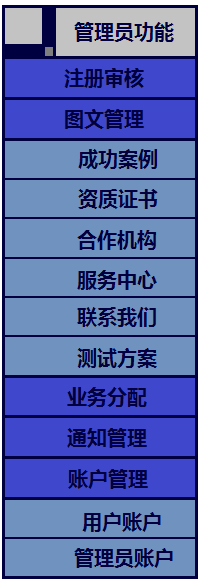
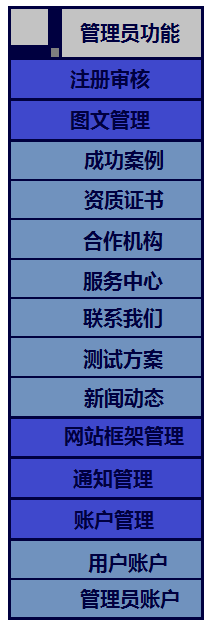
Sort admin tools and prepare for large revision

diff --git a/reqdoc4.0.md b/reqdoc4.0.md
@@ -109,9 +109,9 @@
 
 ## 3 总体设计
 
-### 3.1 功能性需求
+### 3.1 功能性需求 (REV)
 
-#### 3.1.1 主页
+#### 3.1.1 主页 
 
 ![](https://github.com/thytless/gitCooperationExercise/raw/master/pic/homepage.PNG)
 
@@ -155,24 +155,9 @@
 
 
 
-#### 3.1.2 项目
+#### 3.1.2 在线业务
 
-##### 3.1.2.1 展开项目的子栏目
-
-鼠标移动到导航栏“项目”栏目上
-
-##### 3.1.2.2 转到项目主界面
-
-点击导航栏上的项目
-
-##### 3.1.2.3 在线委托
-
-（由其他项目组完成）
-
-##### 3.1.2.4 订单查询
-
-（由其他项目组完成）
-
+（由其他小组完成）
 
 
 #### 3.1.3 成功案例
@@ -297,9 +282,13 @@
 
 光伏产品测试、光伏系统测试
 
+##### 3.1.8 行业新闻 (TODO)
 
 
-### 3.2 用户管理
+##### 3.1.9 国家文件 (TODO)
+
+
+### 3.2 用户管理 
 
 系统初始化时默认有超级管理员账户，其他账户需要通过申请、审核来注册。
 
@@ -350,7 +339,7 @@
 
 在首页登录界面选择登录，输入用户名、密码以登录。
 
-或点击右下的小图标，使用已有账户绑定的第三方账户扫描二维码登录。关于绑定第三方账户见<a href="#h3217">3.2.1.7节</a>
+或点击右下的小图标，使用已有账户绑定的第三方账户扫描二维码登录。关于绑定第三方账户见<a href="#h3214">3.2.1.4节-绑定第三方账户</a>
 
 登录预览：
 
@@ -364,48 +353,45 @@
 
 
 
-##### 3.2.1.4 个人信息
+##### 3.2.1.4 用户设置
 
-用户注册成功后，可以在**个人中心-个人信息**查看、修改注册时填写的信息。
-其中绑定信息会作部分隐藏处理。
+* a.个人信息
+
+	用户注册成功后，可以在**个人中心-个人信息**查看、修改注册时填写的信息。
+	其中绑定信息会作部分隐藏处理。
 	
-- 选择修改个人信息，进入包含注册时填写的第二阶段个人信息的表单，用户修改后，由账户管理员负责审核，审核通过则修改成功，不通过则保持原状。审核信息将发送到用户通知栏。
+	- 选择修改个人信息，进入包含注册时填写的第二阶段个人信息的表单，用户修改后，由账户管理员负责审核，审核通过则修改成功，不通过则保持原状。审核信息将发送到用户通知栏。
 
-- 选择修改密码，输入绑定的邮箱/手机，系统检查数据库中绑定信息的存在，不存在返回错误，存在则将发送验证码。用户接收验证码并输入，核对无误后，输入新密码、确认密码，点击提交后密码修改完毕。
+	- 选择修改密码，输入绑定的邮箱/手机，系统检查数据库中绑定信息的存在，不存在返回错误，存在则将发送验证码。用户接收验证码并输入，核对无误后，输入新密码、确认密码，点击提交后密码修改完毕。
 
-- 选择修改绑定信息，再次输入登录密码，新的邮箱/手机。系统检查输入密码无误后，向新的邮箱/手机发送验证码。用户接收验证码并输入，核对无误后，点击提交后绑定信息修改完毕。
+	- 选择修改绑定信息，再次输入登录密码，新的邮箱/手机。系统检查输入密码无误后，向新的邮箱/手机发送验证码。用户接收验证码并输入，核对无误后，点击提交后绑定信息修改完毕。
+
+* b.账户注销
+	
+	退出当前的登录，以游客状态回到主界面。
+
+* c.账户删除
+
+	在输入“确认删除（用户名）”，输入验证码后删除本账户。
+
+* <a id="h3214">d.绑定第三方账户</a>
+
+	支持绑定qq、微信与钉钉账户。用户既可以用相应账户的账号密码登录来授权绑定，也可以直接扫描二维码来授权绑定。
 
 ##### 3.2.1.5 通知中心
 
 用户登录后，可以在**个人中心-通知中心**查看收到的通知的列表，包括项目的进度，网站的更新、维护等。点击列表中的某一项的标题，可进入详细查看的页面。
 
-##### 3.2.1.6 委托管理
+##### 3.2.1.6 意见反馈板
 
-（由其他小组完成）
-
-##### <a id="h3217">3.2.1.7 绑定第三方账户</a>
-
-支持绑定qq、微信与钉钉账户。用户既可以用相应账户的账号密码登录来授权绑定，也可以直接扫描二维码来授权绑定。
-
-##### 3.2.1.8 账户注销
-
-退出当前账户的登录，回到游客状态。
-
-##### 3.2.1.9 账户删除
-
-在输入“确认删除（用户名）”，输入验证码后删除本账户。
-
-
-##### 3.2.1.10 意见反馈板
-
-**用户：**
+**a.用户：**
 
 新建反馈：基于office插件的消息框，标题、文本必填，可添加5M以内附件。
 
 查看已发送的反馈：可以看到已发送的反馈和管理员的回复，可以继续回复。
 
 
-**管理员：**
+**b.管理员：**
 
 查看、回复用户的意见反馈。可以通过时间，标题，内容搜索某一条反馈。回复基于office插件的消息框，标题、文本必填，可添加5M以内附件。
 
@@ -421,92 +407,107 @@
 
 ![](https://github.com/thytless/gitCooperationExercise/raw/master/pic/admin_example.PNG)
 
-##### 3.2.2.1 修改网页内容
 
-点击修改网页按钮，进入修改网页的页面，管理员可按照自己的意愿修改网页上显示的字体、大小、内容；或者改变网页的布局。也可以在这里面更新资质证书。 
-
-
-
-##### 3.2.2.2 发布新闻动态
-
-点击新闻发布按钮，进入新闻发布页面。可选择上传本地文件和在线编写两种模式。选择上传本地文件会要求上传一份doc/pdf/txt格式的文档，系统会将里面的内容显示在新闻里。选择在线编写会弹出文本框要求发布者书写新闻内容，并且允许发布者上传图片。完成编写后点击提交，新闻动态的发布请求将会传给审核人员。
-
-
-
-##### 3.2.2.3 修改新闻
-
-点击修改新闻按钮，将会显示目前为止所有已经发布的新闻，选择其中某个新闻即可对其进行修改或删除操作，操作完成之后将会提交给审核人员进行审核。
-
- 
-
-##### 3.2.2.4 业务审核
-
-点击业务审核按钮，将会显示目前为止所有的待审核订单，点击某一订单将显示它的详细信息：订单号、申请人、业务具体内容等，带有一个文本框以及（通过/驳回）2个按钮。点击通过即可通过审核，将该订单提交给更上一层的人员审核，如果已经是最高的审核人员，订单即通过审核，会被送到待分配的队列中等待分配。如果要点击驳回，必须在文本框里给出驳回的理由，驳回后的订单将会退回给客户，并告知客户驳回的理由。
-
- 
-
-##### 3.2.2.5 网页审核
-
-点击网页审核按钮，将会显示目前为止所有的待审核网页修改请求，点击某个请求将会显示详细信息：修改人、修改时间、修改内容等，带有一个文本框以及（通过/驳回）2个按钮。点击通过即可通过审核，将该请求提交给更上一层的人员审核，如果已经是最高的审核人员，修改即通过审核，网页机会被修改。如果要点击驳回，必须在文本框里给出驳回的理由，驳回后的请求将会退回给修改人，并告知修改人驳回的理由。
-
- 
-
-##### 3.2.2.6 新闻发布审核
-
-点击新闻审核按钮，将会显示目前为止所有待审核的新闻（发布/修改/删除），点击某一条新闻将会显示详细信息：发布人、新闻内容，带有一个文本框以及（通过/驳回）2个按钮。点击通过即可通过审核，将该请求提交给更上一层的人员审核，如果已经是最高的审核人员，订请求即通过审核，会显示在新闻内容的第一条。如果要点击驳回，必须在文本框里给出驳回的理由，驳回后的请求将会退回给发布人，并告知发布人驳回的理由。
-
- 
-
-##### 3.2.2.7 注册审核
+##### 3.2.2.1 注册审核
 
 点击注册审核按钮，将会显示目前为止所有的注册申请，点击某一申请将会显示详细信息：申请人/单位、联系方式（电话/邮箱）等，带有一个文本框以及（通过/驳回）2个按钮。点击通过即可通过审核，将该请求提交给更上一层的人员审核，如果已经是最高的审核人员，修改即通过审核。如果要点击驳回，必须在文本框里给出驳回的理由，驳回后的请求将会退回给申请人，并告知修申请人驳回的理由。
 当没有账户管理员时，注册申请会提交给超级管理员。存在账户管理员时则不会。
 管理员注册通过后会得到该类型管理员的默认权限。
 
- 
+##### 3.2.2.2 图文管理 (TODO)
 
-##### 3.2.2.8 分配业务
+图文管理栏目包括成功案例、资质证书、合作机构、服务中心、联系我们、测试方案共6个栏目的图文内容的维护和审核。维护权限和审核权限无法共有，因此维护功能只对拥有维护功能的管理员可见，审核功能同理。
 
-点击分配业务按钮，将在页面上显示所有已经通过审核的待处理业务，点击任意业务将会显示目前空闲的测试者，点击某位测试者即会将任务分配给他、向他的邮箱中发送邮件提醒并在他的通知中显示。
+**a.成功案例**
 
-（待其他小组补充）
- 
+* 1.维护
 
-##### 3.2.2.9 客户账户管理
+ 	点击成功案例操作按钮，将会进入成功案例操作界面，有添加/操作2个选项。点击添加选项，将会显示所有已完成的测试案例，点击某一测试案例将会显示其详细信息，包括：申请人、测试开始时间时间、测试结束时间、测试结果、测试人等。并带有2个按钮，分别为取消、展示。点击取消将回退到已完成案例的界面。点击展示则将显示目前为止网站上的所有分类（具体分类内容见上文），点击某一分类即可将案例展示到该分类之下。点击操作按钮即可展示目前为止所有展示的成功案例，点击某一案例即可显示其详细信息，包括：申请人、测试开始时间时间、测试结束时间、测试结果、测试人等。并带有3个按钮，取消/修改/删除。点击取消会退到案例展示页面，点击修改即可对这个案例进行修改，点击删除即可在成功案例展示中删除该案例。以上所有操作需要审核。
 
-点击客户账户管理进入客户账户管理界面，可以查看所有已注册的客户账户，并对其进行搜索查找以及排序。对于某个特定的用户，可以对其进行冻结、解冻、注销操作，同时可以修改该客户的账户信息，包括用户名和密码。
+* 2.审核
 
- 
+	点击案例审核按钮，将会显示目前为止所有的案例操作申请，点击某一申请将会显示详细信息：申请人、申请修改的案例等，带有一个文本框以及（通过/驳回）2个按钮。点击通过即可通过审核，将该请求提交给更上一层的人员审核，如果已经是最高的审核人员，修改即通过审核。如果要点击驳回，必须在文本框里给出驳回的理由，驳回后的请求将会退回给申请人，并告知修申请人驳回的理由。
 
-##### 3.2.2.10 管理员账户管理
+**b.资质证书**
 
-点击管理员账户管理可以进入管理员账户管理界面，可以查看目前所有的管理员账户，并对其进行搜索查找以及排序。对于某个特定的管理员，可以修改其账户的信息包括用户名和密码。同时可以修改管理员的类型来使其获得不同的权限。
+* 1.维护
 
- 
+* 2.审核
 
-##### 3.2.2.11 新建管理员
+**c.合作机构**
 
-点击新建管理员进入管理员添加流程，通过搜索用户名找到需要改为管理员的账户，并规定管理员的权限（选择管理员的类型）然后点击添加即可。
+* 1.维护
+
+* 2.审核
+
+**d.服务中心**
+
+* 1.维护
+
+* 2.审核
+
+**e.联系我们**
+
+* 1.维护
+
+* 2.审核
+
+**f.测试方案**
+
+* 1.维护
+
+* 2.审核
+
+**g.新闻动态**
+
+* 1.维护
+
+	点击新闻发布按钮，进入新闻发布页面。可选择上传本地文件和在线编写两种模式。选择上传本地文件会要求上传一份doc/pdf/txt格式的文档，系统会将里面的内容显示在新闻里。选择在线编写会弹出文本框要求发布者书写新闻内容，并且允许发布者上传图片。完成编写后点击提交，新闻动态的发布请求将会传给审核人员。
+
+	点击修改新闻按钮，将会显示目前为止所有已经发布的新闻，选择其中某个新闻即可对其进行修改或删除操作，操作完成之后将会提交给审核人员进行审核。
+
+* 2.审核
+ 	点击新闻审核按钮，将会显示目前为止所有待审核的新闻（发布/修改/删除），点击某一条新闻将会显示详细信息：发布人、新闻内容，带有一个文本框以及（通过/驳回）2个按钮。点击通过即可通过审核，将该请求提交给更上一层的人员审核，如果已经是最高的审核人员，订请求即通过审核，会显示在新闻内容的第一条。如果要点击驳回，必须在文本框里给出驳回的理由，驳回后的请求将会退回给发布人，并告知发布人驳回的理由。
+	
+
+##### 3.2.2.3 网站框架管理
+
+* 1.维护
+
+	点击修改网页按钮，进入修改网页的页面，管理员可按照自己的意愿修改网页上显示的字体、大小、内容；或者改变网页的布局。也可以在这里面更新资质证书。 
+
+* 2.审核
+
+	点击网页审核按钮，将会显示目前为止所有的待审核网页修改请求，点击某个请求将会显示详细信息：修改人、修改时间、修改内容等，带有一个文本框以及（通过/驳回）2个按钮。点击通过即可通过审核，将该请求提交给更上一层的人员审核，如果已经是最高的审核人员，修改即通过审核，网页机会被修改。如果要点击驳回，必须在文本框里给出驳回的理由，驳回后的请求将会退回给修改人，并告知修改人驳回的理由。
+
+##### 3.2.2.4 通知管理
+* 1.发布
+
+	单人的或集体的通知信息，可以按类别添加或按用户名查找添加目标用户。基于office插件的消息框，标题、文本必填，可添加5M以内附件。填写相关图文后提交申请。
 
 
 
-##### 3.2.2.13 发布通知
+* 2.审核
 
-单人的或集体的通知信息，可以按类别添加或按用户名查找添加目标用户。基于office插件的消息框，标题、文本必填，可添加5M以内附件。填写相关图文后提交申请。
+	点击通知审核按钮，将会显示目前为止所有的待审核通知，点击某一通知将显示它的详细信息：目标用户，通知内容等，带有一个文本框以及（通过/驳回）2个按钮。点击通过即可通过审核，将该通知提交给更上一层的人员审核，如果已经是最高的审核人员，通知即通过审核，发布给目标用户。如果要点击驳回，必须在文本框里给出驳回的理由，并通过通知形式告知通知发布者。
+
+
+##### 3.2.2.5 账户管理
+
+* a.客户
+
+	点击客户账户管理进入客户账户管理界面，可以查看所有已注册的客户账户，并对其进行搜索查找以及排序。对于某个特定的用户，可以对其进行冻结、解冻、注销操作，同时可以修改该客户的账户信息，包括用户名和密码。
+
+* b.管理员
+
+	点击管理员账户管理可以进入管理员账户管理界面，可以查看目前所有的管理员账户，并对其进行搜索查找以及排序。对于某个特定的管理员，可以修改其账户的信息包括用户名和密码。同时可以修改管理员的类型来使其获得不同的权限。
+
+* c.新建管理员
+
+	点击新建管理员进入管理员添加流程，通过搜索用户名找到需要改为管理员的账户，并规定管理员的权限（选择管理员的类型）然后点击添加即可。
 
 
 
-##### 3.2.2.14 通知审核
-
-点击通知审核按钮，将会显示目前为止所有的待审核通知，点击某一通知将显示它的详细信息：目标用户，通知内容等，带有一个文本框以及（通过/驳回）2个按钮。点击通过即可通过审核，将该通知提交给更上一层的人员审核，如果已经是最高的审核人员，通知即通过审核，发布给目标用户。如果要点击驳回，必须在文本框里给出驳回的理由，并通过通知形式告知通知发布者。
-
-##### 3.2.2.15 成功案例操作
-
-点击成功案例操作按钮，将会进入成功案例操作界面，有添加/操作2个选项。点击添加选项，将会显示所有已完成的测试案例，点击某一测试案例将会显示其详细信息，包括：申请人、测试开始时间时间、测试结束时间、测试结果、测试人等。并带有2个按钮，分别为取消、展示。点击取消将回退到已完成案例的界面。点击展示则将显示目前为止网站上的所有分类（具体分类内容见上文），点击某一分类即可将案例展示到该分类之下。点击操作按钮即可展示目前为止所有展示的成功案例，点击某一案例即可显示其详细信息，包括：申请人、测试开始时间时间、测试结束时间、测试结果、测试人等。并带有3个按钮，取消/修改/删除。点击取消会退到案例展示页面，点击修改即可对这个案例进行修改，点击删除即可在成功案例展示中删除该案例。以上所有操作需要审核。
-
-##### 3.2.2.16 案例审核
-
-点击案例审核按钮，将会显示目前为止所有的案例操作申请，点击某一申请将会显示详细信息：申请人、申请修改的案例等，带有一个文本框以及（通过/驳回）2个按钮。点击通过即可通过审核，将该请求提交给更上一层的人员审核，如果已经是最高的审核人员，修改即通过审核。如果要点击驳回，必须在文本框里给出驳回的理由，驳回后的请求将会退回给申请人，并告知修申请人驳回的理由。
 
 ### 3.3 非功能性需求
 
